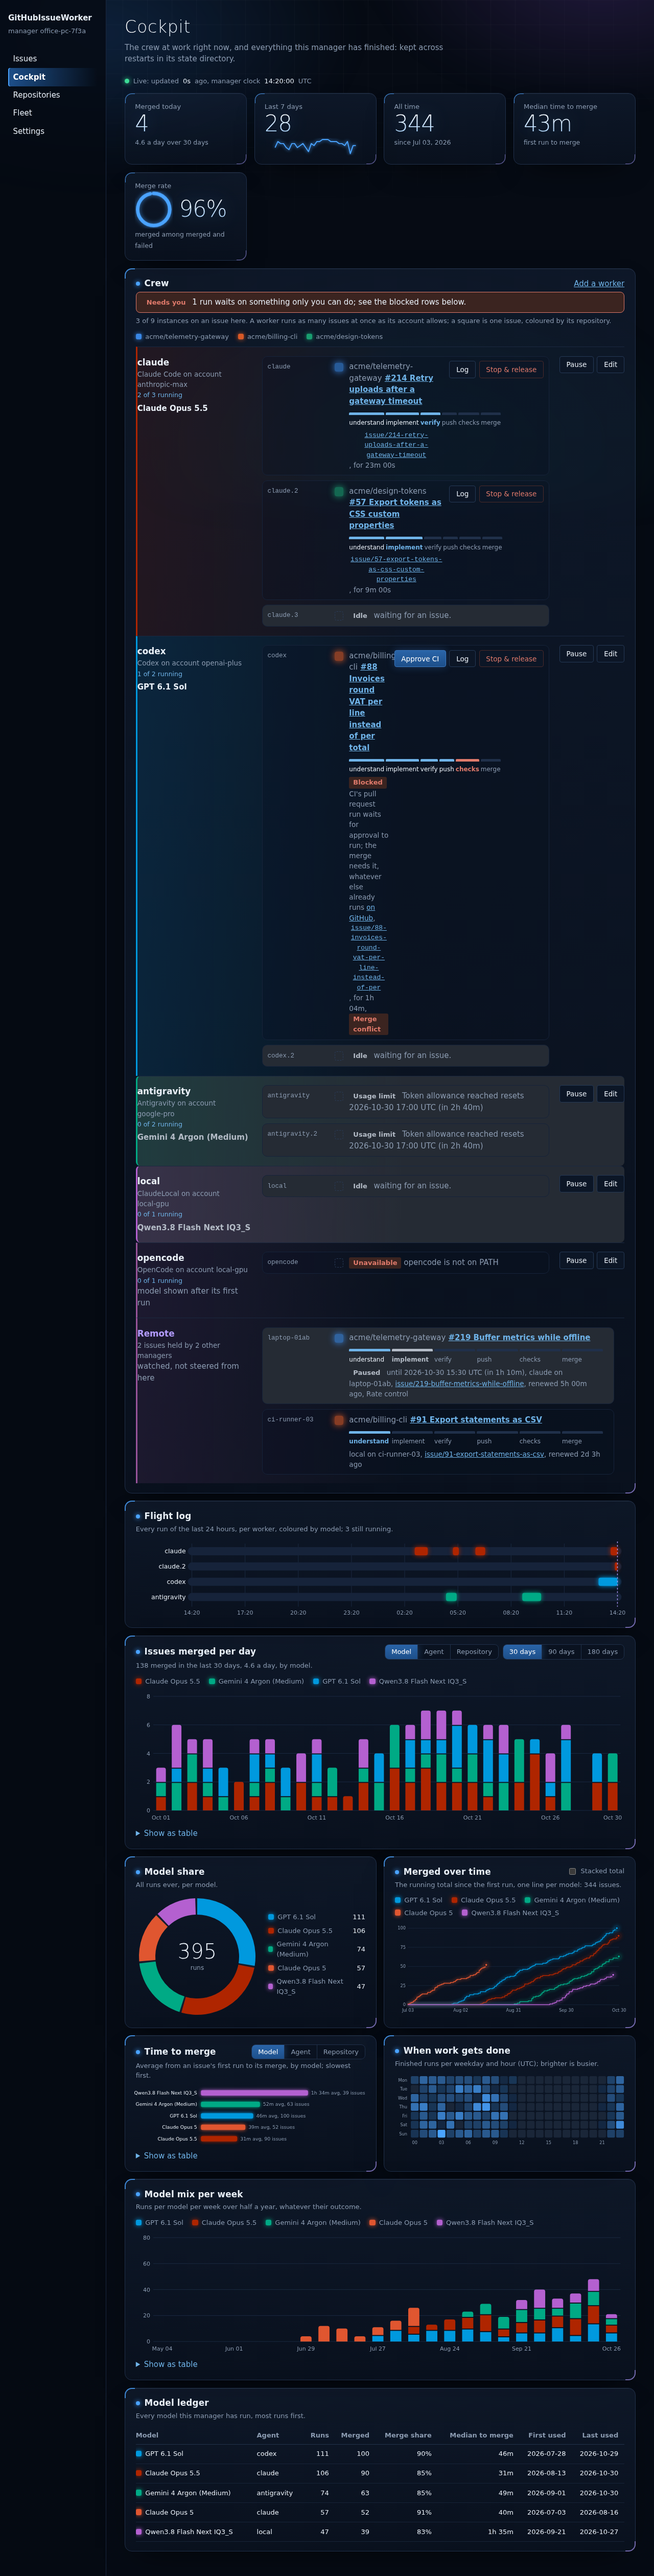
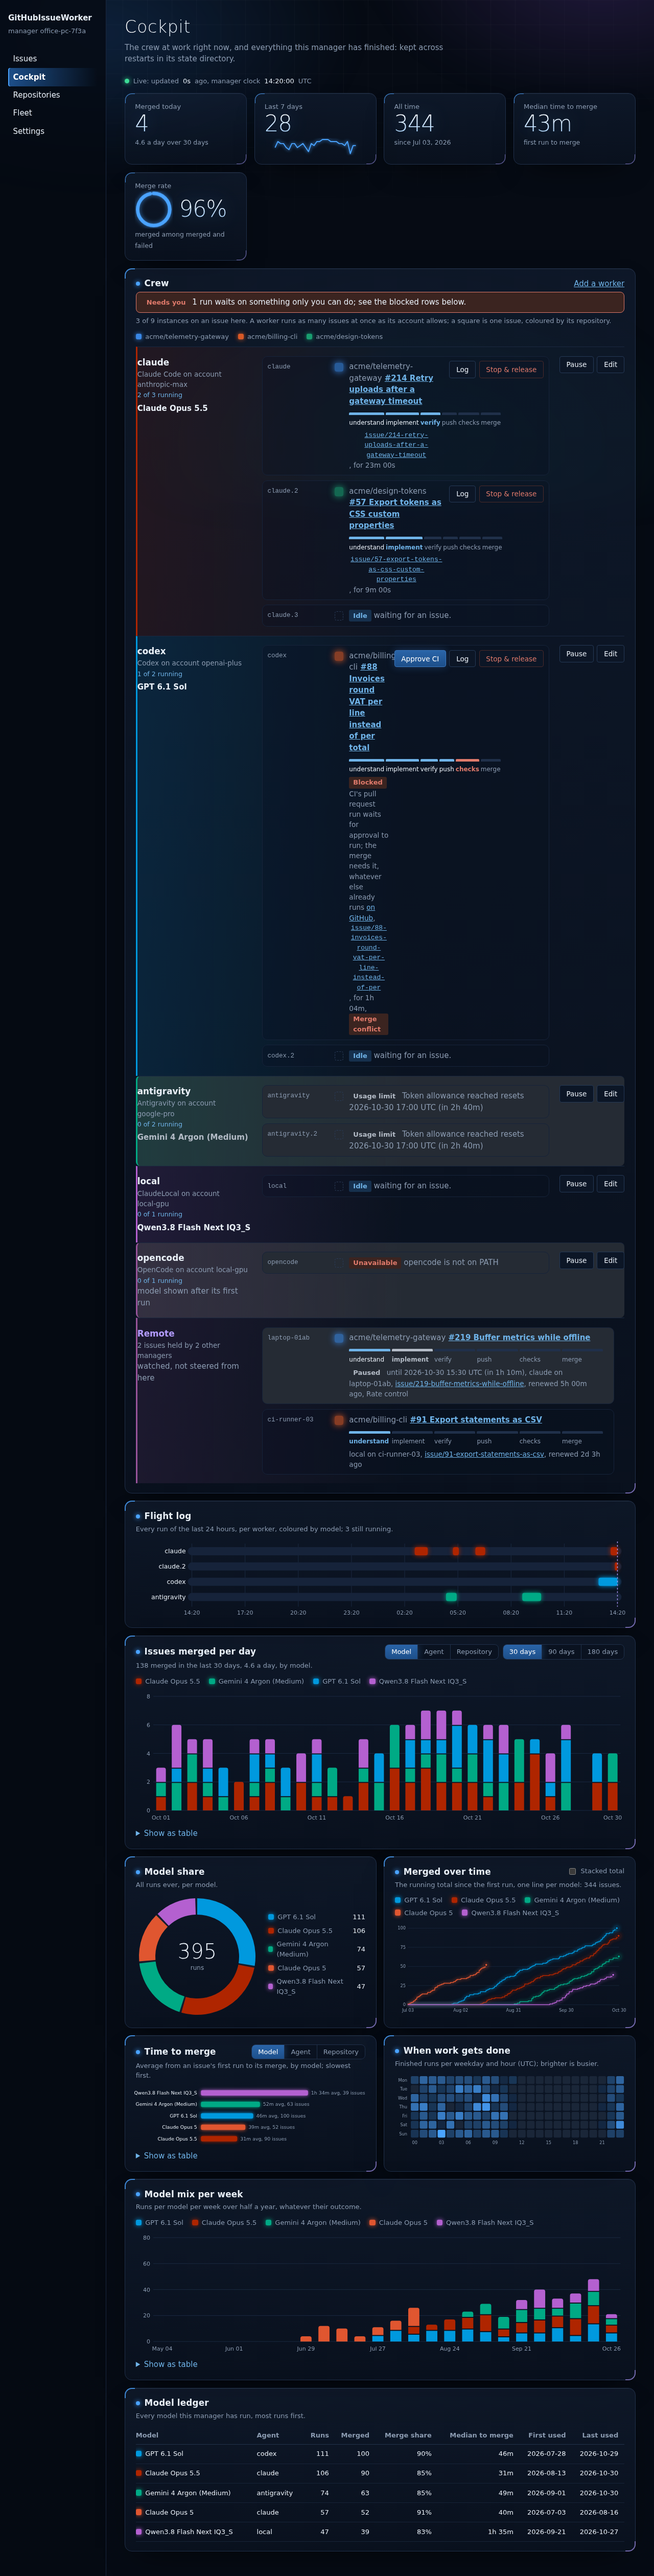
* gray only for workers that cannot work (#57)
* paused, limited and unavailable workers are gray
* idle workers keep their tint fading into transparency

Changed region(s): [[0.2188, 0.405, 0.9688, 0.5296], [0.5312, 0.2181, 0.8438, 0.2492]]

diff --git a/src/github_issue_worker/ui/pages.py b/src/github_issue_worker/ui/pages.py
@@ -113,7 +113,8 @@ h2 { font-size: 1.1rem; margin: 2rem 0 .5rem; }
 .flag { display: inline-block; padding: .1rem .5rem; border-radius: 3px; font-size: 13px;
   font-weight: 600; }
 .flag.feedback { background: var(--amber-soft); color: var(--amber); }
-.flag.limited, .flag.paused, .flag.idle { background: var(--wait-soft); color: var(--wait); }
+.flag.limited, .flag.paused { background: var(--wait-soft); color: var(--wait); }
+.flag.idle { background: var(--steel-soft); color: var(--steel); }
 .flag.conflict { background: var(--brick-soft); color: var(--brick); }
 .track span.conflict { border-top-color: var(--brick); color: var(--brick); }
 .track span.waiting { border-top-color: var(--wait); color: var(--wait); }
@@ -879,7 +880,7 @@ def _instance(
 ) -> str:
     """One sub-row: what this instance of the worker is doing, with its own log and stop."""
     label = worker.name
-    waiting = worker.state in ("idle", "paused", "limited")
+    waiting = worker.state in UNABLE
     if worker.state != "unavailable" and worker.issue is not None and worker.repository:
         name = e(worker.name)
         facts = []
@@ -941,15 +942,16 @@ def _instance(
         return _free(
             f'<span class="flag unavailable">Unavailable</span> <span class=quiet>{e(worker.reason)}</span>',
             label,
-        )
+        ).replace("class=run", 'class="run waiting"', 1)
     if worker.state == "paused":
         return _free(
             '<span class="flag paused">Paused</span> <span class=quiet>takes no new issue</span>',
             label,
         ).replace("class=run", 'class="run waiting"', 1)
+    # Idle is ready to work: no gray, which is kept for workers that cannot work.
     return _free(
         '<span class="flag idle">Idle</span> <span class=quiet>waiting for an issue.</span>', label
-    ).replace("class=run", 'class="run waiting"', 1)
+    )
 
 
 def _agent_row(
@@ -976,13 +978,17 @@ def _agent_row(
         f'<a class=button href="/workers/{group}">Edit</a>'
     )
     rows = "".join(_instance(instance, now, issues, palette) for instance in instances)
-    waiting = all(i.state in ("idle", "paused", "limited") for i in instances)
+    waiting = all(i.state in UNABLE for i in instances)
     wear = palette.lane(model if model and model != "-" else None, first.agent_kind)
     return (
         f'<div class="lane{" waiting" if waiting else ""}" style="--lane:{wear}" '
         f'role=group aria-label="{group}"><div>{who}</div>'
         f"<div class=stack>{rows}</div><div class=actions>{actions}</div></div>"
     )
+
+
+UNABLE = ("paused", "limited", "unavailable")
+"""States in which a worker cannot work: only these are drawn gray. Idle means ready."""
 
 
 def _limit_status(worker: WorkerView, now: datetime) -> str:

diff --git a/tests/ui/test_feedback_colors.py b/tests/ui/test_feedback_colors.py
@@ -25,7 +25,7 @@ def test_feedback_wait_is_yellow_after_claim_release() -> None:
     assert '<span class="flag feedback">waiting for your answer</span>' in html
 
 
-@pytest.mark.parametrize("state", ["idle", "paused", "limited"])
+@pytest.mark.parametrize("state", ["paused", "limited", "unavailable"])
 def test_waiting_agent_box_is_gray_and_active_agent_stays_active(state: WorkerState) -> None:
     worker = replace(DemoBackend().snapshot().workers[0], state=state, limited_until=None)
     html = _agent_row((worker,), NOW, {}, NO_COLOURS)
@@ -122,7 +122,7 @@ def test_demo_contains_feedback_resource_and_merge_conflict_examples() -> None:
     assert snapshot.manager_id == MANAGER
 
 
-@pytest.mark.parametrize("state", ["idle", "paused", "limited"])
+@pytest.mark.parametrize("state", ["paused", "limited", "unavailable"])
 def test_waiting_instance_is_gray_while_another_instance_keeps_running(state: WorkerState) -> None:
     active = DemoBackend().snapshot().workers[0]
     waiting = replace(active, name=active.name + ".2", state=state, issue=None, repository=None)
@@ -130,3 +130,9 @@ def test_waiting_instance_is_gray_while_another_instance_keeps_running(state: Wo
     assert 'class="lane waiting"' not in html
     assert 'class="run waiting"' in html
     assert 'class="now"' in html
+
+
+def test_an_idle_worker_is_ready_so_its_box_is_not_gray() -> None:
+    worker = replace(DemoBackend().snapshot().workers[0], state="idle", issue=None, repository=None)
+    html = _agent_row((worker,), NOW, {}, NO_COLOURS)
+    assert 'class="lane waiting"' not in html and 'class="run waiting"' not in html

diff --git a/README.md b/README.md
@@ -1200,8 +1200,10 @@ operational items, demonstrated on a real repository. Commits that implement an 
   every page and live fragment; links to the UI's own pages open in the same tab.
 - [x] 🟧 **F14.18** Feedback colours: an issue waiting for a requested human answer has a
   yellow status chip even after its claim is released. Token, spending-allowance and rate-limit
-  waits have gray chips, with the reason and reset time when known. Idle, paused and resource-waiting
-  worker boxes are gray; a worker still executing stays active. A worker shows exactly one active
+  waits have gray chips, with the reason and reset time when known. Gray is reserved for a worker that
+  cannot work: paused, out of tokens or allowance, rate-limited or unavailable. An idle worker is
+  ready, so its box keeps its model tint fading into transparency; a worker still executing stays
+  active. A worker shows exactly one active
   progress chip, its current step; what needs the user marks that chip and no other. A merge
   conflict or CI waiting for approval turns the current chip red and makes it pulse rapidly, with
   the reason as its title, through refreshes, repair steps and restarts until resolution,
